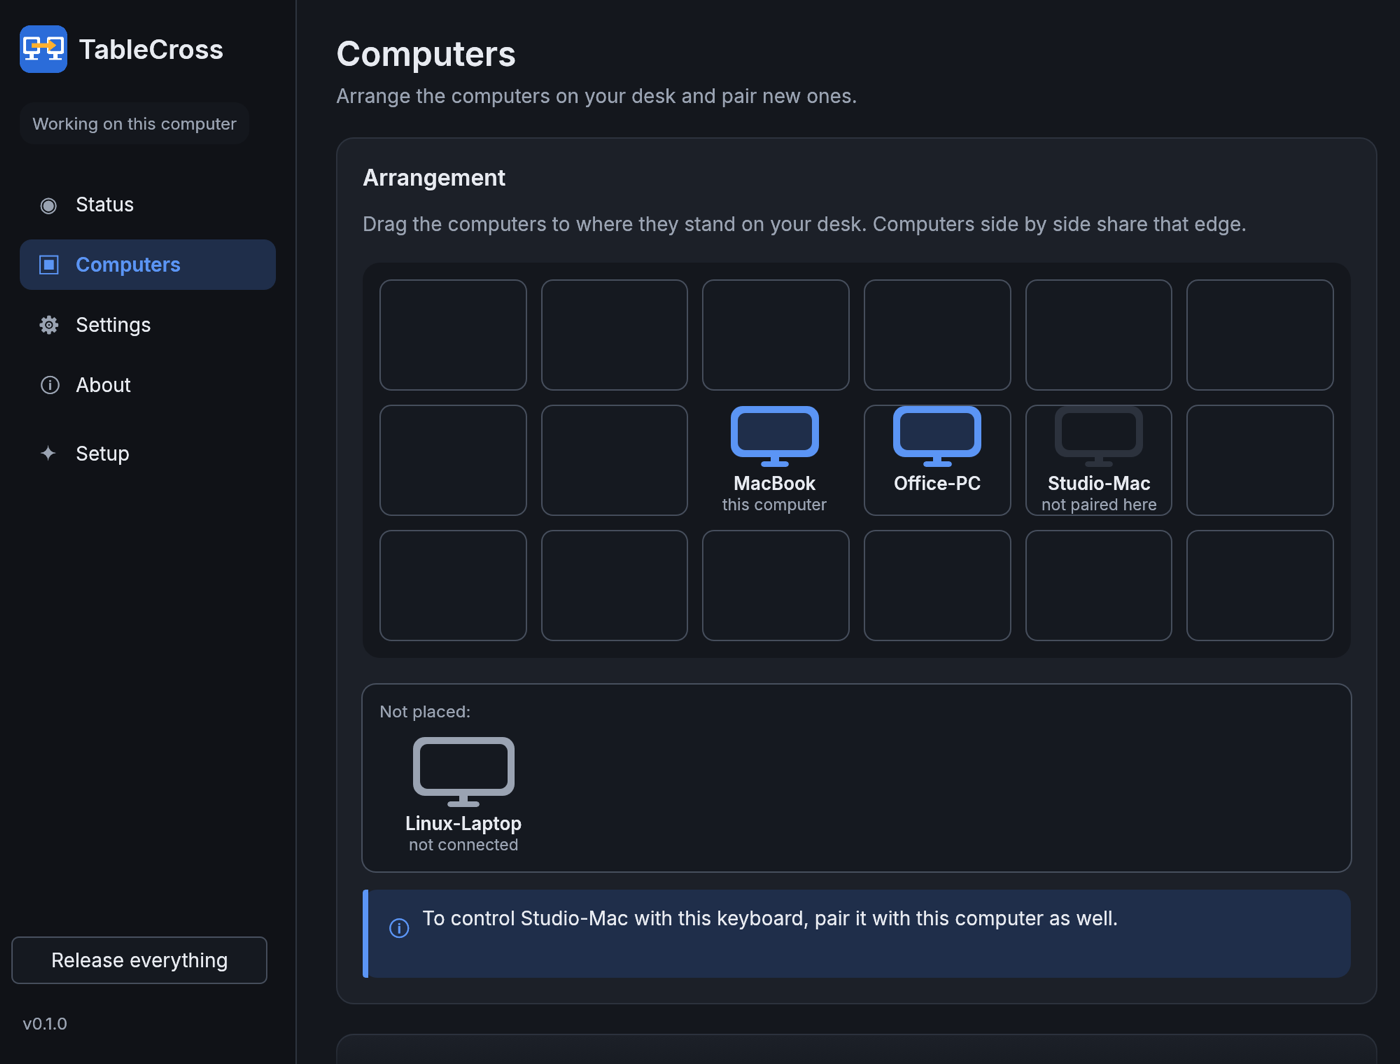
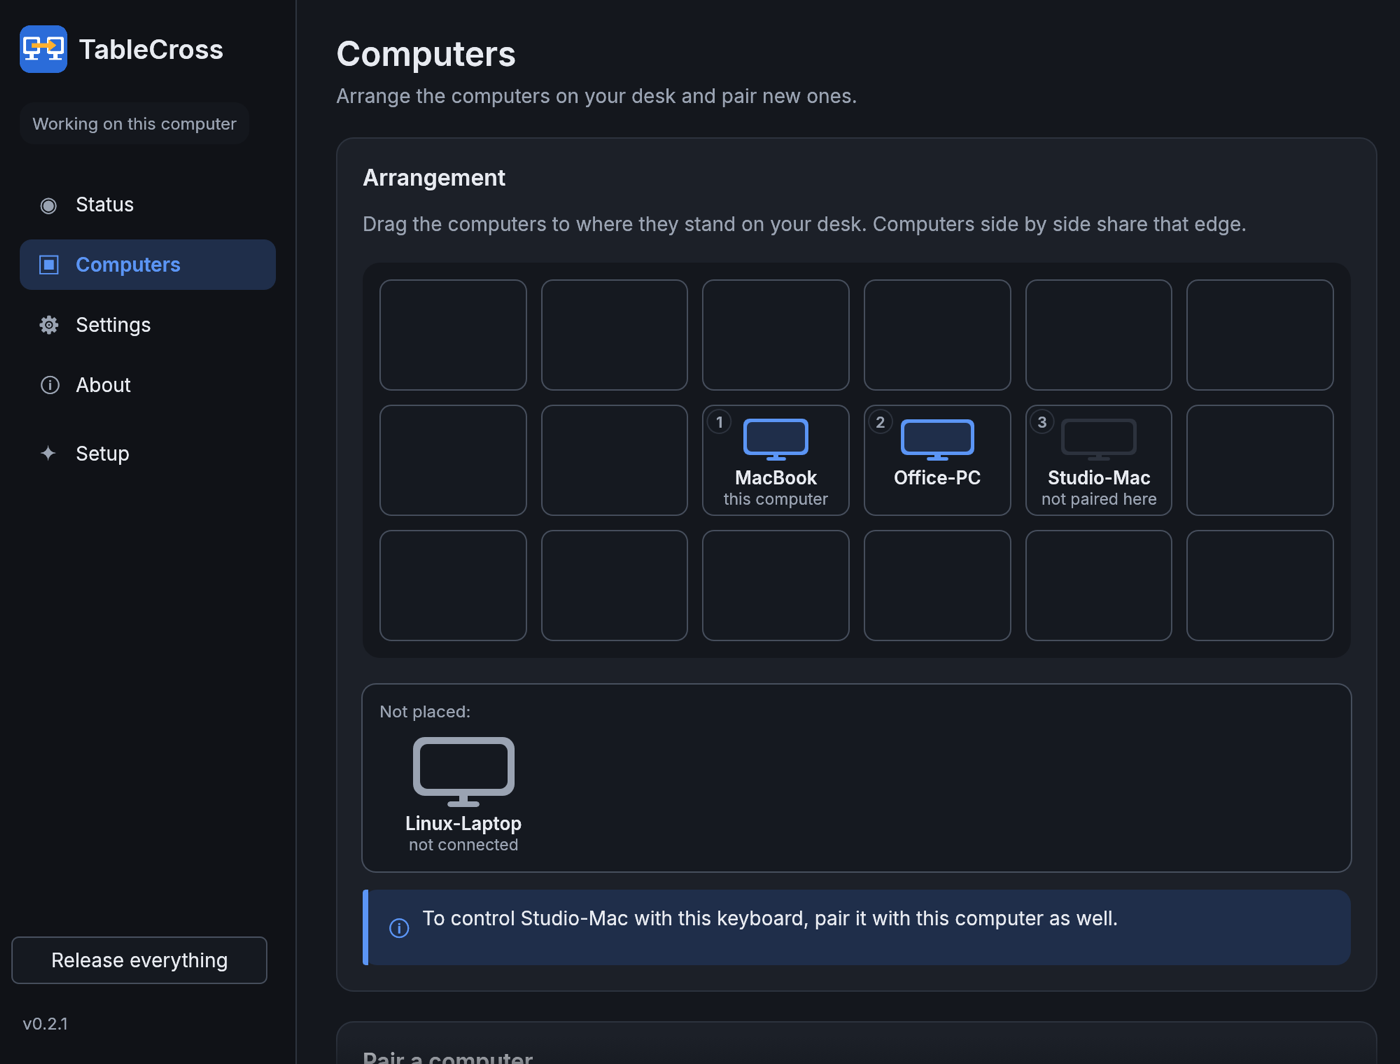
Version 0.2.1: screen sizes to scale, screenshots
Screens get more room in the tiles; computers whose screens are unknown no
longer shrink the others. New screenshots for the README.

diff --git a/app/src/pages/computers.rs b/app/src/pages/computers.rs
@@ -82,13 +82,13 @@ impl App {
             .fold(f32::INFINITY, f32::min);
         // Computers whose screens are not known (not connected) as a common full HD screen
         let unknown = [egui::Rect::from_min_size(egui::Pos2::ZERO, egui::vec2(1920.0, 1080.0))];
-        let scale = scale.min(fit_scale(&unknown, monitor_area(tile)).unwrap_or(f32::INFINITY));
-        let shapes = |id: &str| {
-            let screens = screens
-                .iter()
-                .find(|(m, _)| m == id)
-                .map_or(&unknown[..], |(_, s)| s.as_slice());
-            scale.is_finite().then_some(Shapes { screens, scale })
+        let unknown_scale = fit_scale(&unknown, monitor_area(tile)).unwrap_or(1.0).min(scale);
+        let shapes = |id: &str| match screens.iter().find(|(m, _)| m == id) {
+            Some((_, s)) => Some(Shapes { screens: s, scale }),
+            None => Some(Shapes {
+                screens: &unknown,
+                scale: unknown_scale,
+            }),
         };
         let dragging = egui::DragAndDrop::has_any_payload(ui.ctx());
         let mut dropped: Option<(String, Option<(i32, i32)>)> = None;
@@ -538,7 +538,7 @@ struct Shapes<'a> {
 }
 
 /// Room above the screens for the number of the computer.
-const SCREENS_TOP: f32 = 20.0;
+const SCREENS_TOP: f32 = 8.0;
 
 /// Where the screens are drawn in a tile (the name goes below).
 fn monitor_area(tile: Vec2) -> Vec2 {

diff --git a/app/src/demo.rs b/app/src/demo.rs
@@ -70,14 +70,7 @@ pub fn status() -> Status {
         pairing_busy: false,
         input: InputState::Running,
         problems: vec![tc_input::Problem::HelperMissing],
-        screens: vec![
-            screen(1512, 982, 1.0),
-            Screen {
-                x: 1512,
-                y: -458,
-                ..screen(2560, 1440, 1.0)
-            },
-        ],
+        screens: vec![screen(1512, 982, 1.0)],
         notices: [
             (ago(3600), Notice::Connected("Office-PC".into())),
             (
